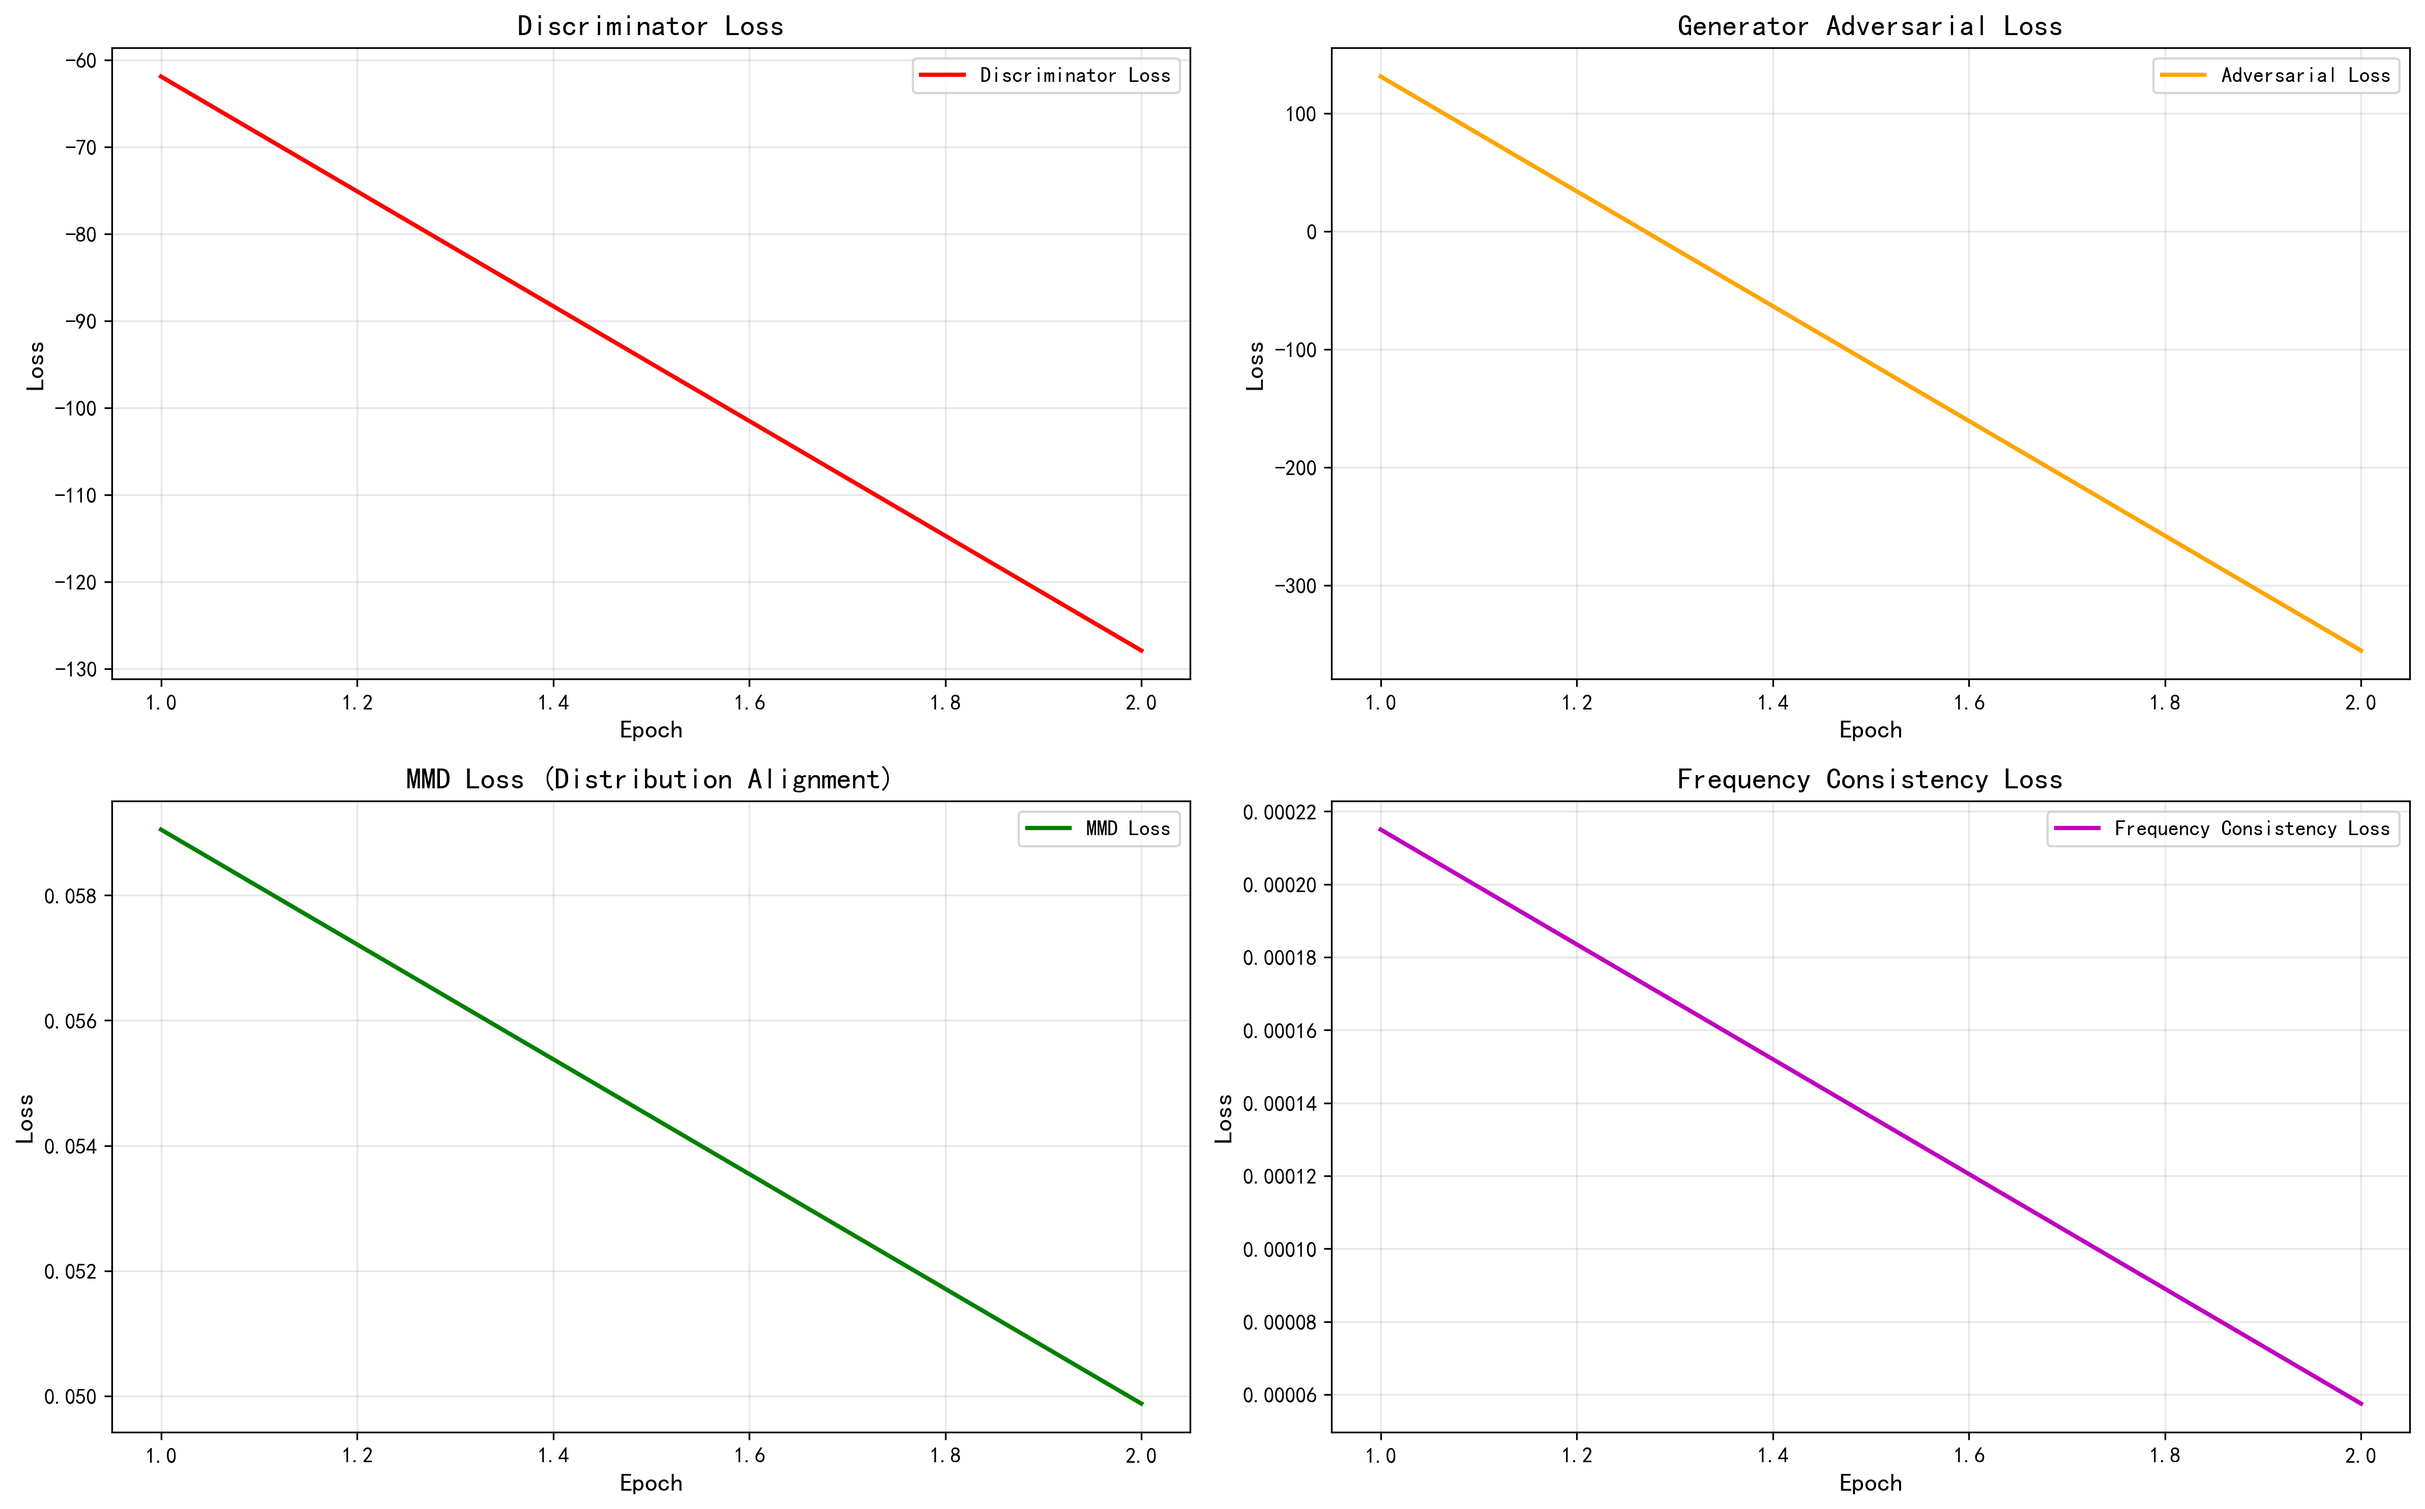
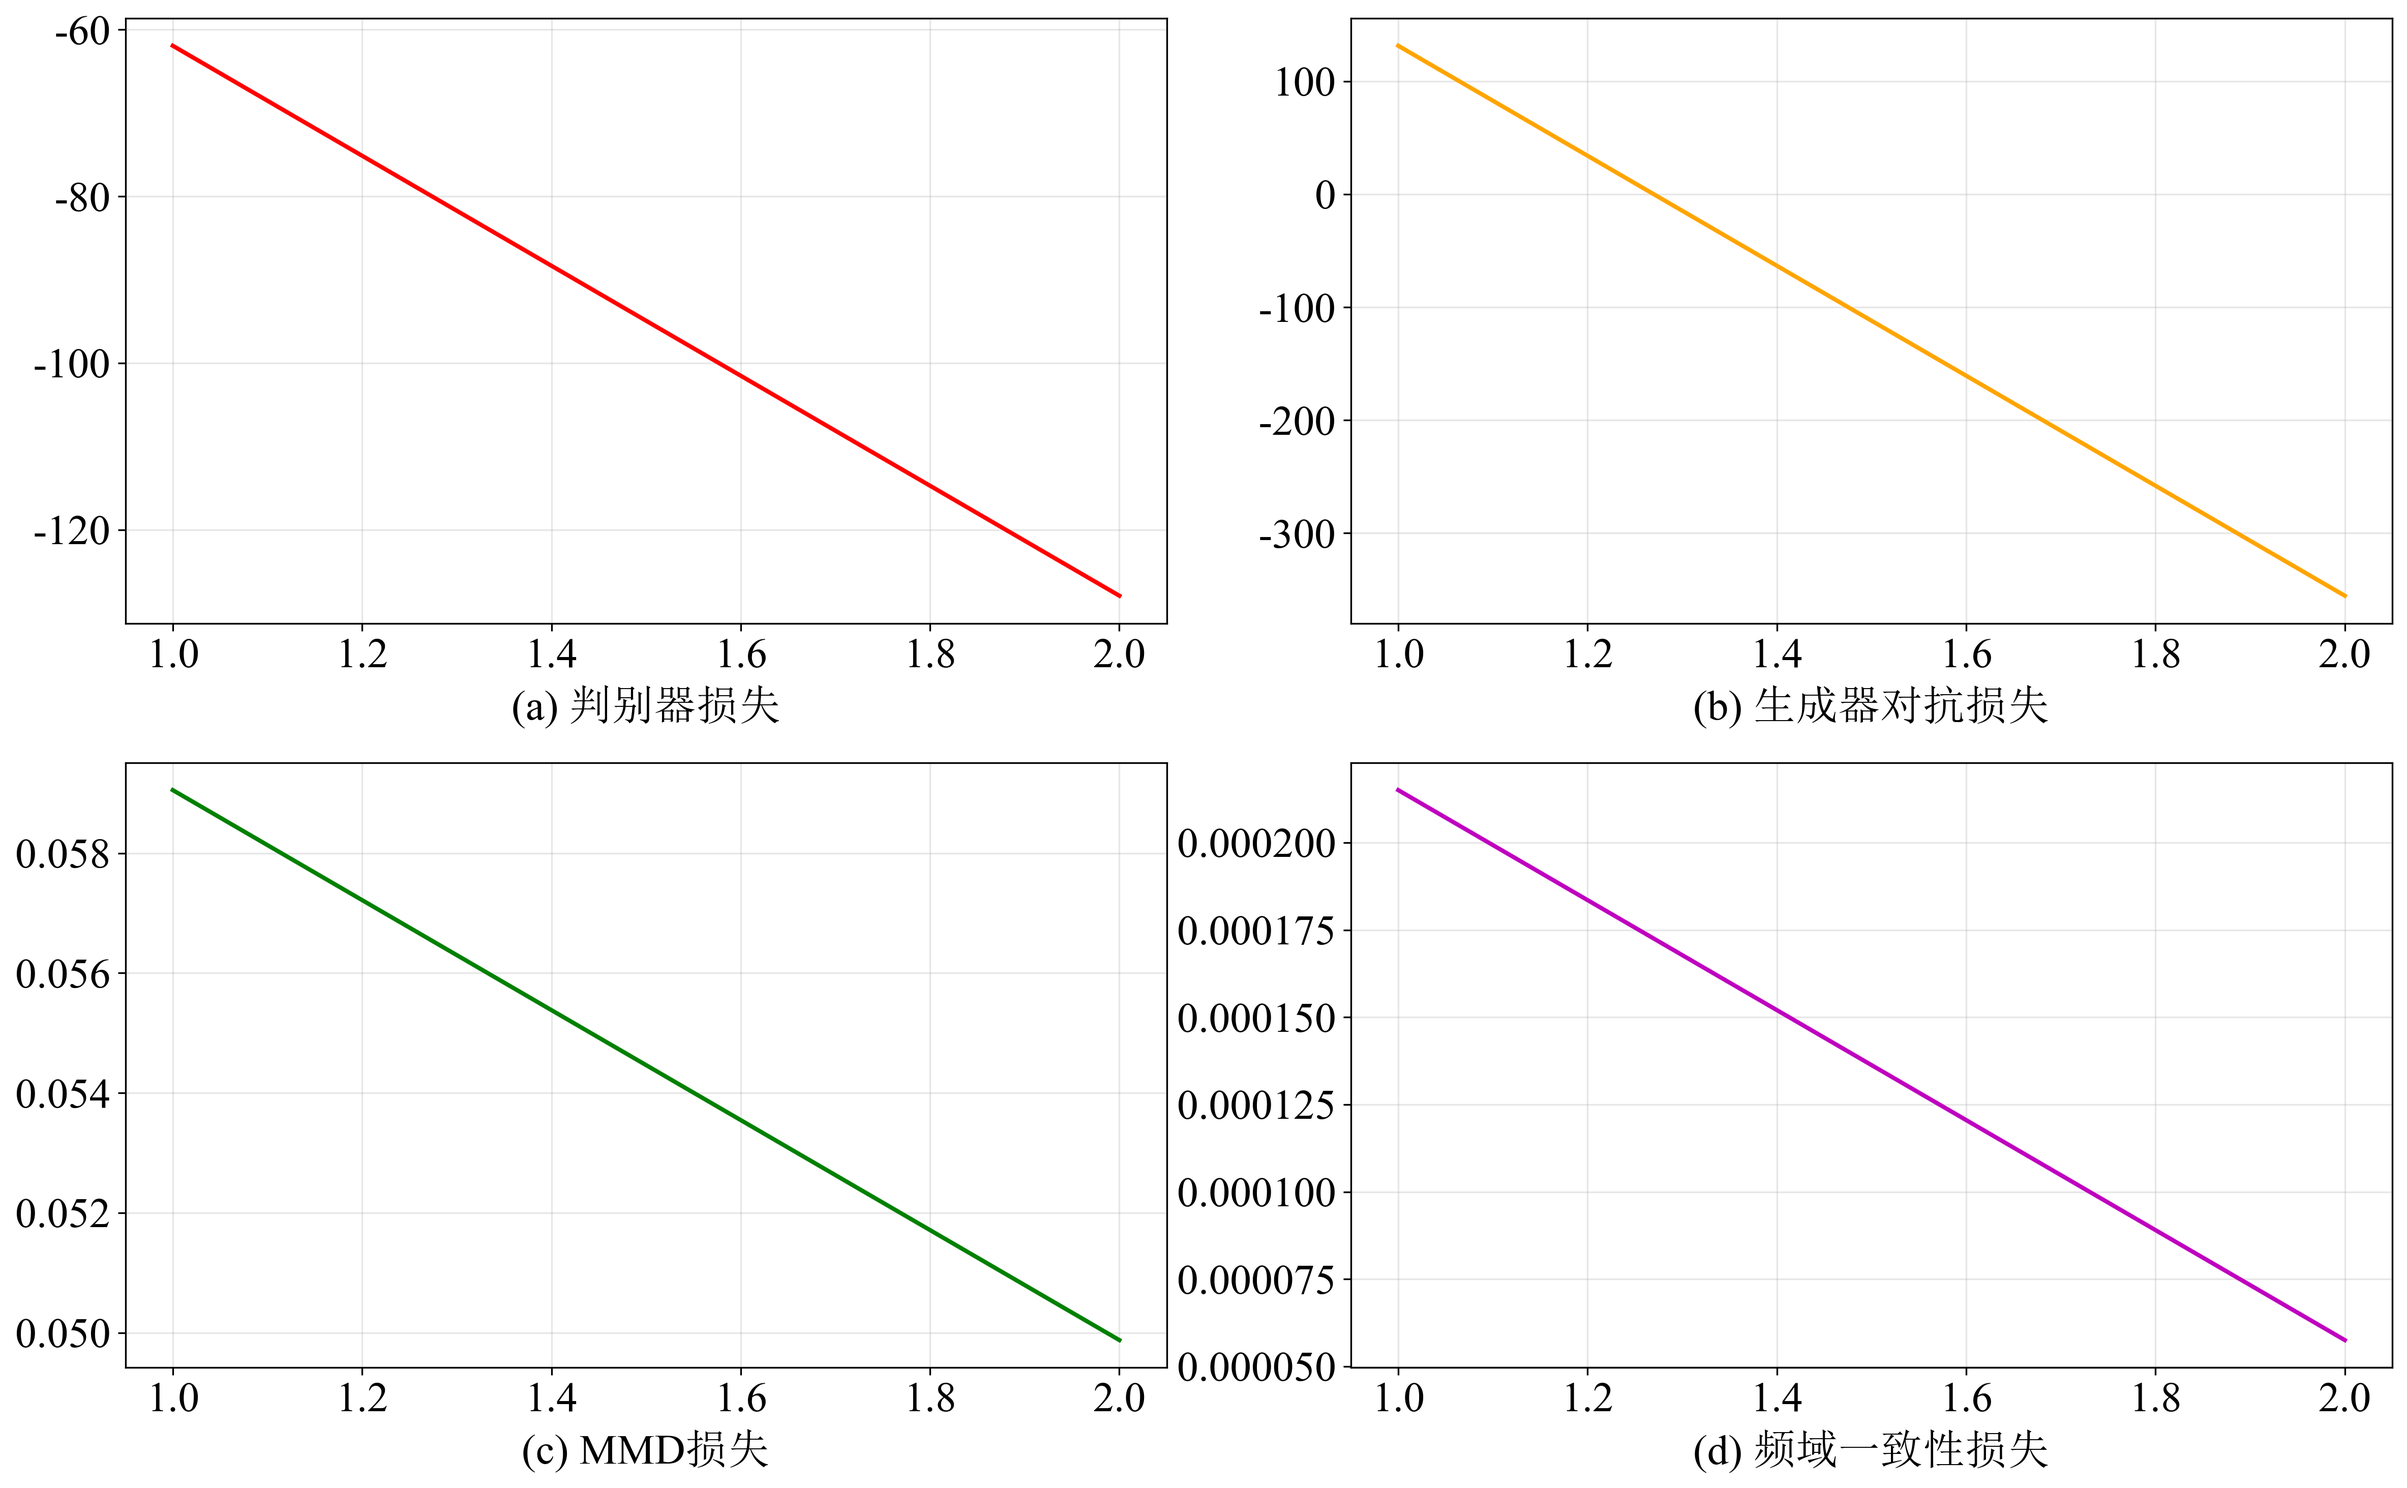
Research1 修改

diff --git a/Research1/plot_GAN.py b/Research1/plot_GAN.py
@@ -11,41 +11,111 @@ from sklearn.manifold import TSNE
 from sklearn.decomposition import PCA
 from matplotlib import font_manager
 
-# 设置中文字体支持
+# 设置中文字体支持 - 中文宋体，英文数字Times New Roman
 plt.rcParams['axes.unicode_minus'] = False  # 解决负号 '-' 显示为方块的问题
-plt.rcParams['font.sans-serif'] = ['SimHei', 'Microsoft YaHei', 'DejaVu Sans', 'Bitstream Vera Sans', 'sans-serif']
+
+# 设置全局字体配置：使用font fallback机制实现中英文分离
+# 关键：设置font.sans-serif让中文正常显示，通过Text对象的family参数控制英文
+plt.rcParams['font.sans-serif'] = ['SimSun', 'Arial', 'DejaVu Sans']
+plt.rcParams['font.serif'] = ['SimSun', 'Times New Roman', 'DejaVu Serif']
+plt.rcParams['mathtext.fontset'] = 'custom'
+plt.rcParams['mathtext.rm'] = 'Times New Roman'
+plt.rcParams['mathtext.it'] = 'Times New Roman:italic'
+plt.rcParams['mathtext.bf'] = 'Times New Roman:bold'
+
+# 启用字体回退机制
+try:
+    from matplotlib import font_manager
+    # 注册字体回退：中文用SimSun，英文数字用Times New Roman
+    font_manager.fontManager.addfont = lambda x: None  # 防止重复添加
+except:
+    pass
+
+print("已设置字体: 中文-宋体(SimSun), 英文/数字-Times New Roman")
 
 
-def create_zh_font(size=12):
+def get_chinese_font_properties(size=20):
     """
-    创建带有指定字体大小的中文字体属性对象
-
-    参数:
-    size (int): 字体大小
-
-    返回:
-    FontProperties: 配置好的字体属性对象
+    获取中文字体属性（宋体）
     """
     try:
-        # 尝试使用系统中的中文字体
-        available_fonts = [f.name for f in font_manager.fontManager.ttflist]
-        chinese_font_names = ['SimHei', 'Microsoft YaHei', 'SimSun', 'FangSong', 'STHeiTi', 'STSong']
+        return font_manager.FontProperties(family='SimSun', size=size)
+    except:
+        return font_manager.FontProperties(family='sans-serif', size=size)
 
-        for font_name in chinese_font_names:
-            if font_name in available_fonts:
-                font_path = font_manager.findfont(font_manager.FontProperties(family=font_name))
-                return font_manager.FontProperties(fname=font_path, size=size)
+def get_english_font_properties(size=20):
+    """
+    获取英文/数字字体属性（Times New Roman）
+    """
+    try:
+        return font_manager.FontProperties(family='Times New Roman', size=size)
+    except:
+        return font_manager.FontProperties(family='serif', size=size)
 
-        # 如果找不到中文字体，使用默认字体
-        return font_manager.FontProperties(size=size)
-    except Exception as e:
-        print(f"字体加载异常: {e}")
-        return font_manager.FontProperties(size=size)
+def get_mixed_font_properties(size=20):
+    """
+    获取混合字体属性（中文宋体+英文Times New Roman）
+    通过设置fallback实现中英文分离
+    """
+    try:
+        # 创建支持中英文混合的字体属性
+        prop = font_manager.FontProperties(size=size)
+        # 设置字体回退列表：SimSun for Chinese, Times New Roman for English/Numbers
+        prop.set_family(['SimSun', 'Times New Roman'])
+        return prop
+    except:
+        return font_manager.FontProperties(family='sans-serif', size=size)
+
+def create_mixed_text_with_fonts(ax, text, fontsize, **kwargs):
+    """
+    创建支持中英文分离字体的文本对象
+    中文使用宋体，英文和数字使用Times New Roman
+    通过Unicode编码分离中英文
+    
+    Args:
+        ax: matplotlib axes对象
+        text: 要显示的文本
+        fontsize: 字体大小
+        **kwargs: 其他传递给set_title/set_xlabel的参数
+    
+    Returns:
+        formatted_text: 格式化后的文本
+        font_properties: 字体属性
+    """
+    import re
+    
+    # 判断是否包含中文
+    has_chinese = bool(re.search(r'[\u4e00-\u9fff]', text))
+    has_english_or_digit = bool(re.search(r'[a-zA-Z0-9]', text))
+    
+    if has_chinese and has_english_or_digit:
+        # 混合文本：使用fallback机制
+        # 设置字体列表，让matplotlib自动处理
+        prop = font_manager.FontProperties(size=fontsize)
+        # 关键：先Times New Roman后接SimSun，英文优先用TNR，中文回退到SimSun
+        prop.set_family(['Times New Roman', 'SimSun'])
+        return text, prop
+    elif has_chinese:
+        # 纯中文
+        return text, get_chinese_font_properties(fontsize)
+    else:
+        # 纯英文/数字
+        return text, get_english_font_properties(fontsize)
+
+
+# 创建默认字体属性
+zh_font = get_chinese_font_properties(20)
+en_font = get_english_font_properties(20)
+mixed_font = get_mixed_font_properties(20)  # 中英文混合字体
+print(f"已配置字体，中文-宋体, 英文/数字-Times New Roman, 默认大小为20")
 
 
 def plot_training_metrics_from_json(json_file_path):
     """
     从JSON文件中读取训练历史并绘制GAN训练过程中的各项指标
+    支持两种JSON格式：
+    1. 旧格式: {'full_training_history': [...]}
+    2. 新格式: {'training_losses': {'d_loss': [...], 'g_adv_loss': [...], ...}}
     """
     import json
     
@@ -53,8 +123,29 @@ def plot_training_metrics_from_json(json_file_path):
     with open(json_file_path, 'r', encoding='utf-8') as f:
         data = json.load(f)
     
-    # 提取训练历史
-    train_loss_history = data['full_training_history']
+    # 判断JSON格式并提取训练历史
+    if 'full_training_history' in data:
+        # 旧格式：直接使用
+        train_loss_history = data['full_training_history']
+    elif 'training_losses' in data:
+        # 新格式：需要转换
+        training_losses = data['training_losses']
+        d_losses = training_losses['d_loss']
+        g_adv_losses = training_losses['g_adv_loss']
+        mmd_losses = training_losses['mmd_loss']
+        freq_losses = training_losses['freq_loss']
+        
+        # 转换为旧格式（列表的字典）
+        train_loss_history = []
+        for i in range(len(d_losses)):
+            train_loss_history.append({
+                'd_loss': d_losses[i],
+                'g_adv_loss': g_adv_losses[i],
+                'mmd_loss': mmd_losses[i],
+                'freq_loss': freq_losses[i]
+            })
+    else:
+        raise KeyError("JSON文件中找不到 'full_training_history' 或 'training_losses' 键")
     
     # 调用原有的绘图函数
     plot_training_metrics(train_loss_history, output_dir='GAN')
@@ -75,46 +166,65 @@ def plot_training_metrics(train_loss_history, output_dir='GAN'):
     freq_losses = [loss['freq_loss'] for loss in train_loss_history]  # 频域一致性损失
     epochs = range(1, len(train_loss_history) + 1)
     
+    print(f"开始绘制训练指标，共 {len(train_loss_history)} 个epoch")
+    print(f"判别器损失范围: [{min(d_losses):.4f}, {max(d_losses):.4f}]")
+    print(f"对抗损失范围: [{min(g_adv_losses):.4f}, {max(g_adv_losses):.4f}]")
+    print(f"MMD损失范围: [{min(mmd_losses):.4f}, {max(mmd_losses):.4f}]")
+    print(f"频域损失范围: [{min(freq_losses):.6f}, {max(freq_losses):.6f}]")
+    
     # 步骤3: 创建大型图表，包含4个子图
-    fig, axes = plt.subplots(2, 2, figsize=(16, 10))
+    fig, axes = plt.subplots(2, 2, figsize=(16, 10), facecolor='white')
+    fig.patch.set_facecolor('white')
     
     # 子图1: 判别器损失
-    axes[0, 0].plot(epochs, d_losses, 'r-', linewidth=2, label='Discriminator Loss')
-    axes[0, 0].set_title('Discriminator Loss', fontsize=14, fontweight='bold')
-    axes[0, 0].set_xlabel('Epoch', fontsize=12)
-    axes[0, 0].set_ylabel('Loss', fontsize=12)
+    axes[0, 0].plot(epochs, d_losses, 'r-', linewidth=2, label='判别器损失')
+    #axes[0, 0].set_ylabel('损失', fontproperties=zh_font, fontsize=20)
     axes[0, 0].grid(True, alpha=0.3)
-    axes[0, 0].legend()
+    #axes[0, 0].legend(prop=zh_font, fontsize=20)
+    axes[0, 0].tick_params(axis='both', which='major', labelsize=20)
+    for label in axes[0, 0].get_xticklabels() + axes[0, 0].get_yticklabels():
+        label.set_fontproperties(en_font)
+    title_text, title_font = create_mixed_text_with_fonts(axes[0, 0], '(a) 判别器损失', 20)
+    axes[0, 0].set_xlabel(title_text, fontproperties=title_font, fontsize=20)
     
     # 子图2: 生成器对抗损失
-    axes[0, 1].plot(epochs, g_adv_losses, 'orange', linewidth=2, label='Adversarial Loss')
-    axes[0, 1].set_title('Generator Adversarial Loss', fontsize=14, fontweight='bold')
-    axes[0, 1].set_xlabel('Epoch', fontsize=12)
-    axes[0, 1].set_ylabel('Loss', fontsize=12)
+    axes[0, 1].plot(epochs, g_adv_losses, 'orange', linewidth=2, label='对抗损失')
+    #axes[0, 1].set_ylabel('损失', fontproperties=zh_font, fontsize=20)
     axes[0, 1].grid(True, alpha=0.3)
-    axes[0, 1].legend()
+    #axes[0, 1].legend(prop=zh_font, fontsize=20)
+    axes[0, 1].tick_params(axis='both', which='major', labelsize=20)
+    for label in axes[0, 1].get_xticklabels() + axes[0, 1].get_yticklabels():
+        label.set_fontproperties(en_font)
+    title_text, title_font = create_mixed_text_with_fonts(axes[0, 1], '(b) 生成器对抗损失', 20)
+    axes[0, 1].set_xlabel(title_text, fontproperties=title_font, fontsize=20)
     
     # 子图3: MMD损失
-    axes[1, 0].plot(epochs, mmd_losses, 'g-', linewidth=2, label='MMD Loss')
-    axes[1, 0].set_title('MMD Loss (Distribution Alignment)', fontsize=14, fontweight='bold')
-    axes[1, 0].set_xlabel('Epoch', fontsize=12)
-    axes[1, 0].set_ylabel('Loss', fontsize=12)
+    axes[1, 0].plot(epochs, mmd_losses, 'g-', linewidth=2, label='MMD损失')
+    #axes[1, 0].set_ylabel('损失', fontproperties=zh_font, fontsize=20)
     axes[1, 0].grid(True, alpha=0.3)
-    axes[1, 0].legend()
+    #axes[1, 0].legend(prop=zh_font, fontsize=20)
+    axes[1, 0].tick_params(axis='both', which='major', labelsize=20)
+    for label in axes[1, 0].get_xticklabels() + axes[1, 0].get_yticklabels():
+        label.set_fontproperties(en_font)
+    title_text, title_font = create_mixed_text_with_fonts(axes[1, 0], '(c) MMD损失', 20)
+    axes[1, 0].set_xlabel(title_text, fontproperties=title_font, fontsize=20)
     
     # 子图4: 频域一致性损失
-    axes[1, 1].plot(epochs, freq_losses, 'm-', linewidth=2, label='Frequency Consistency Loss')
-    axes[1, 1].set_title('Frequency Consistency Loss', fontsize=14, fontweight='bold')
-    axes[1, 1].set_xlabel('Epoch', fontsize=12)
-    axes[1, 1].set_ylabel('Loss', fontsize=12)
+    axes[1, 1].plot(epochs, freq_losses, 'm-', linewidth=2, label='频域一致性损失')
+    #axes[1, 1].set_ylabel('损失', fontproperties=zh_font, fontsize=20)
     axes[1, 1].grid(True, alpha=0.3)
-    axes[1, 1].legend()
+    #axes[1, 1].legend(prop=zh_font, fontsize=20)
+    axes[1, 1].tick_params(axis='both', which='major', labelsize=20)
+    for label in axes[1, 1].get_xticklabels() + axes[1, 1].get_yticklabels():
+        label.set_fontproperties(en_font)
+    title_text, title_font = create_mixed_text_with_fonts(axes[1, 1], '(d) 频域一致性损失', 20)
+    axes[1, 1].set_xlabel(title_text, fontproperties=title_font, fontsize=20)
     
     # 步骤4: 调整布局并保存图形
-    plt.tight_layout()
+    plt.tight_layout(pad=1.5)
     plot_path = os.path.join(output_dir, 'training_metrics.png')
-    plt.savefig(plot_path, dpi=300, bbox_inches='tight')
-    print(f"  训练指标图已保存到: {plot_path}")
+    plt.savefig(plot_path, dpi=300, bbox_inches='tight', facecolor='white', edgecolor='none')
+    print(f"\n训练指标图已保存到: {plot_path}")
     plt.close()
     
 
